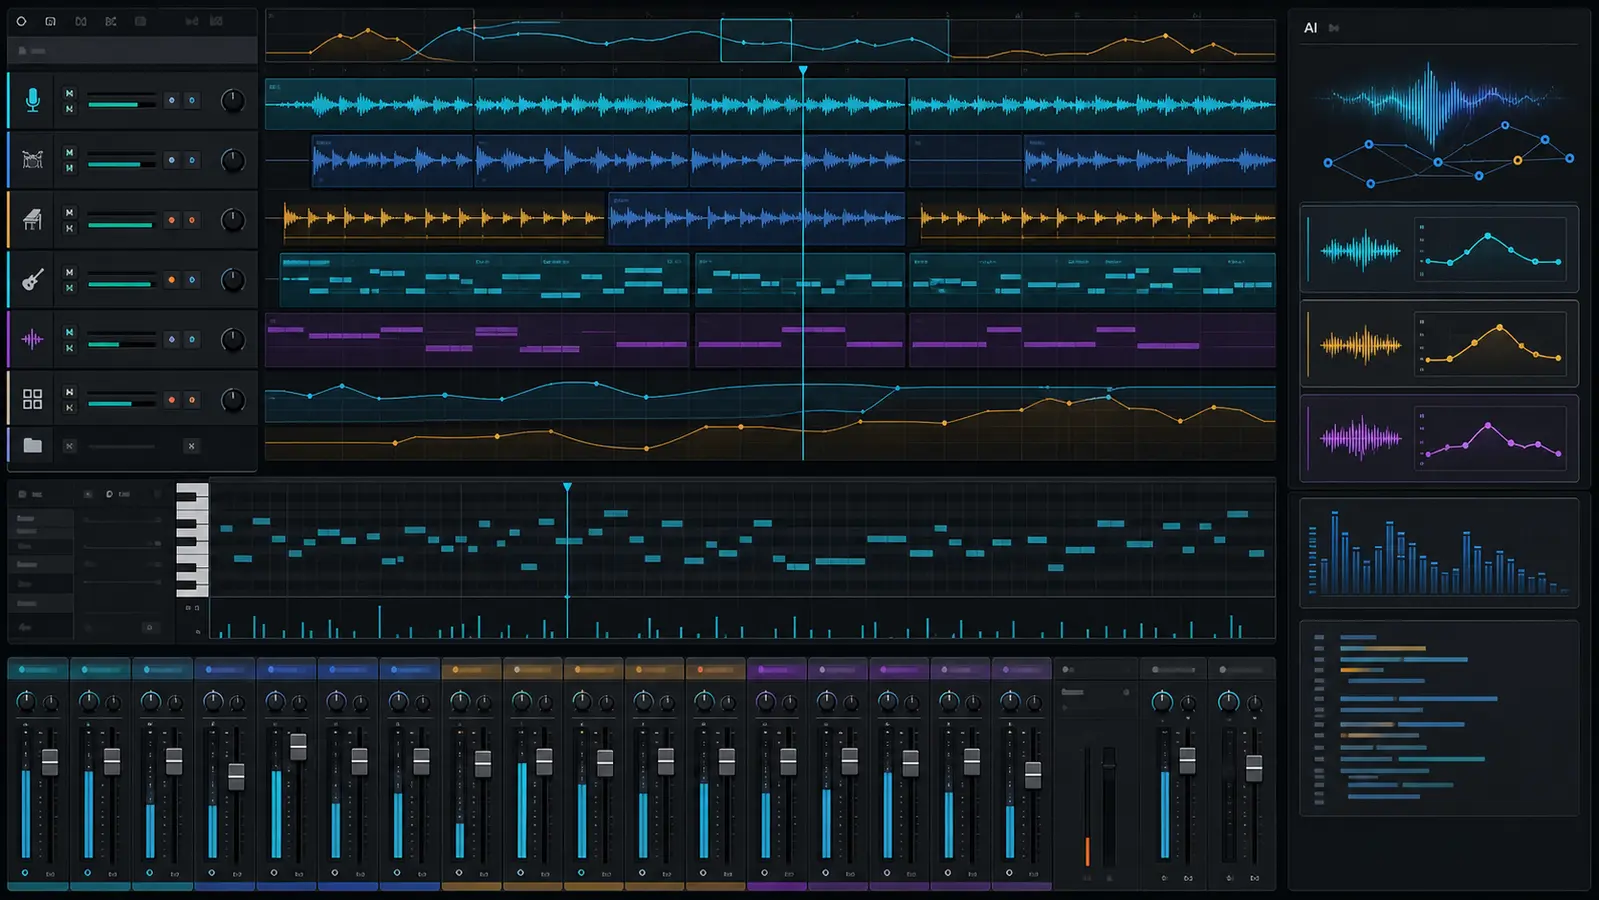
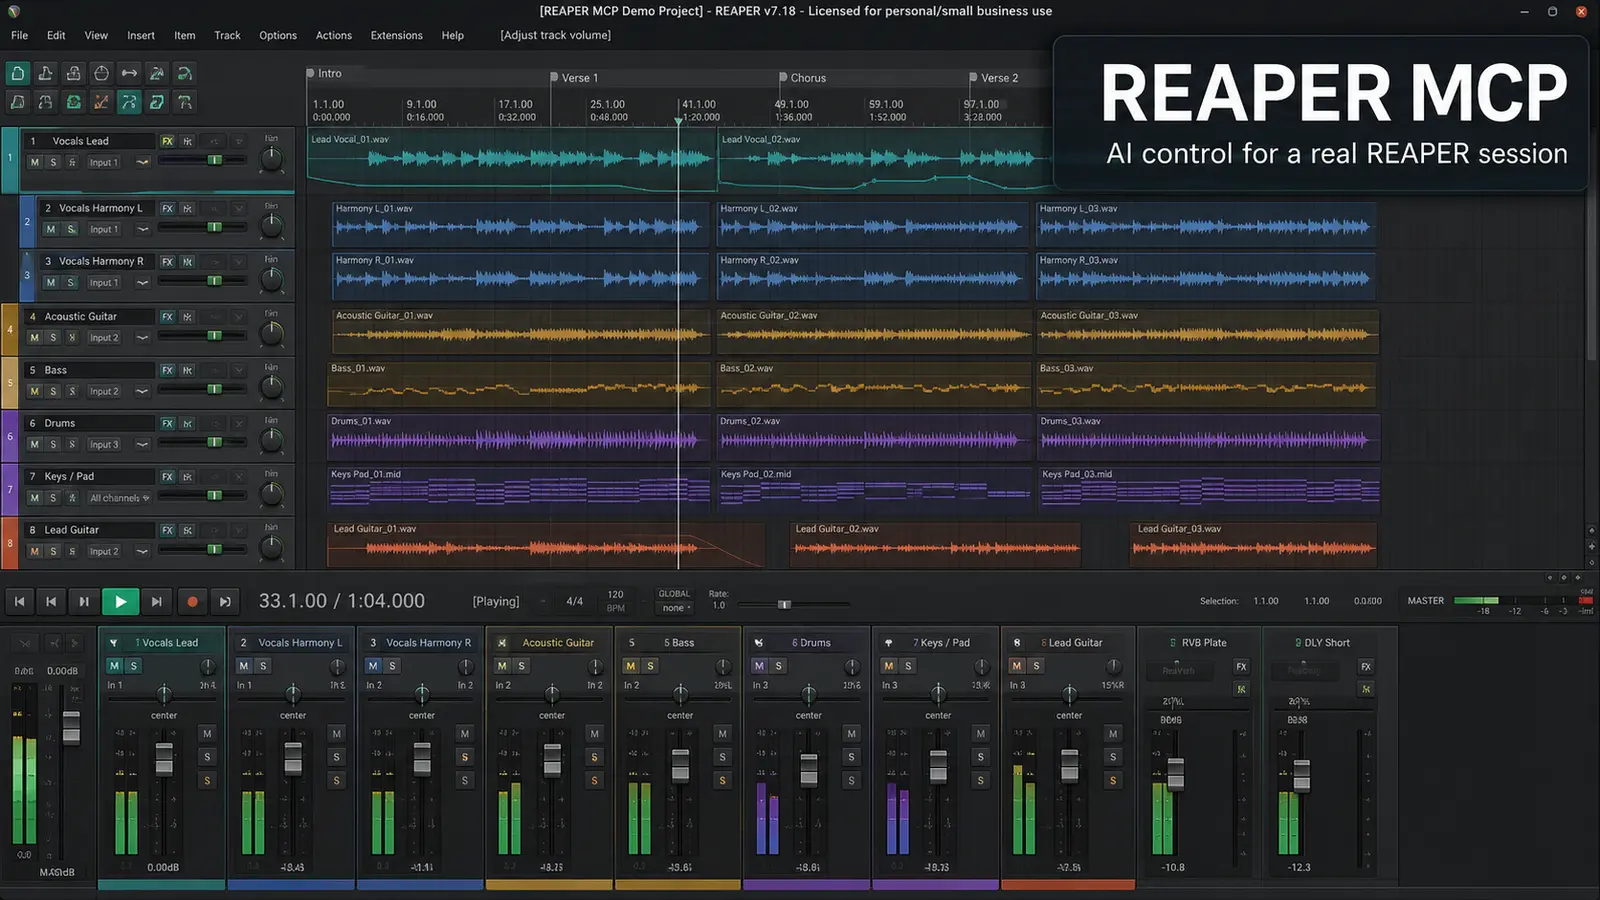
feat(projects): show REAPER MCP session cover

diff --git a/src/data/projects.ts b/src/data/projects.ts
@@ -11,7 +11,7 @@ export const projects: Project[] = [
       "Built so an AI collaborator can work inside the same REAPER project as the producer, rather than replacing the DAW. Its 170 operations cover the path from an empty session to an arranged, mixed, mastered, and rendered song, with every change visible and undoable.",
     image: "/media/projects/reaper-mcp.webp",
     imageAlt:
-      "A multitrack digital audio workstation with waveforms, MIDI notes, automation, mixer channels, and analysis panels",
+      "A REAPER 7 production session with vocal and instrument tracks, waveforms, automation, and the mixer behind the REAPER MCP title",
     featured: true,
     stack: ["Python", "Lua", "MCP", "REST", "REAPER"],
     links: [
